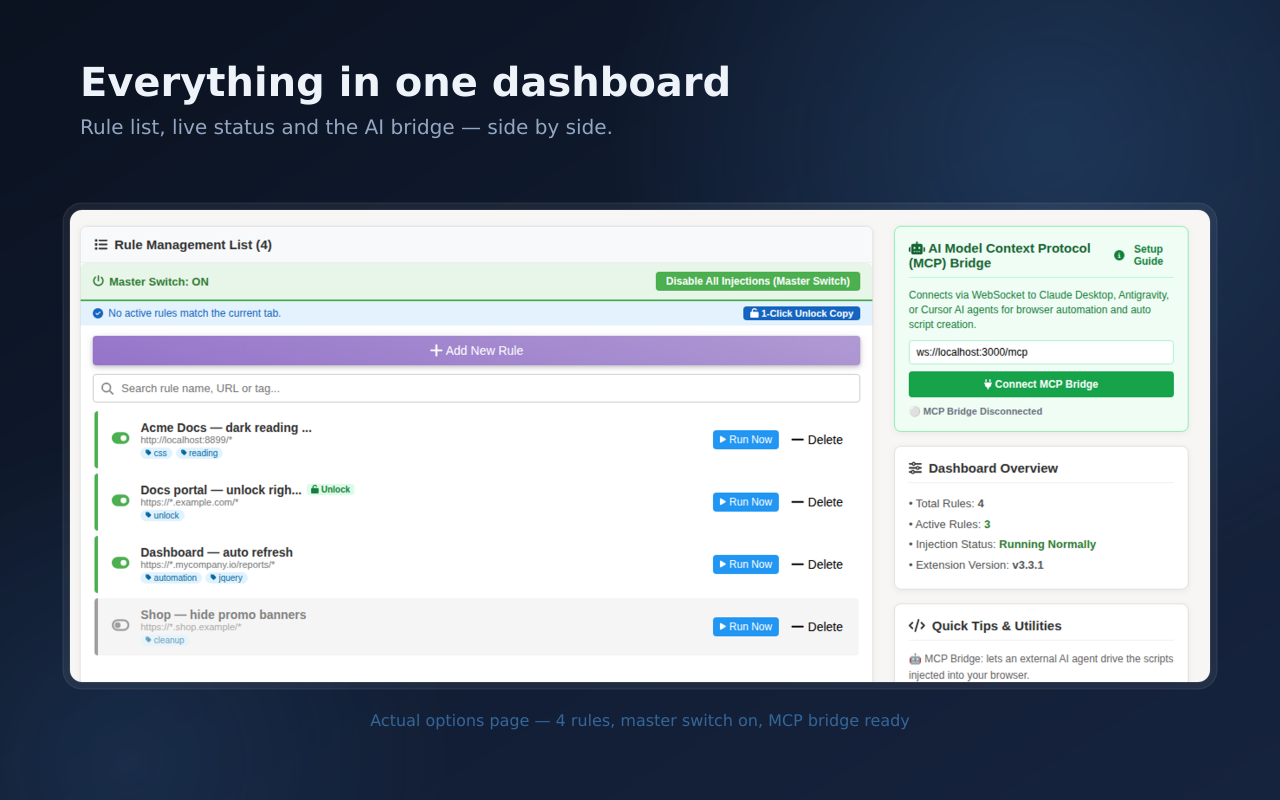
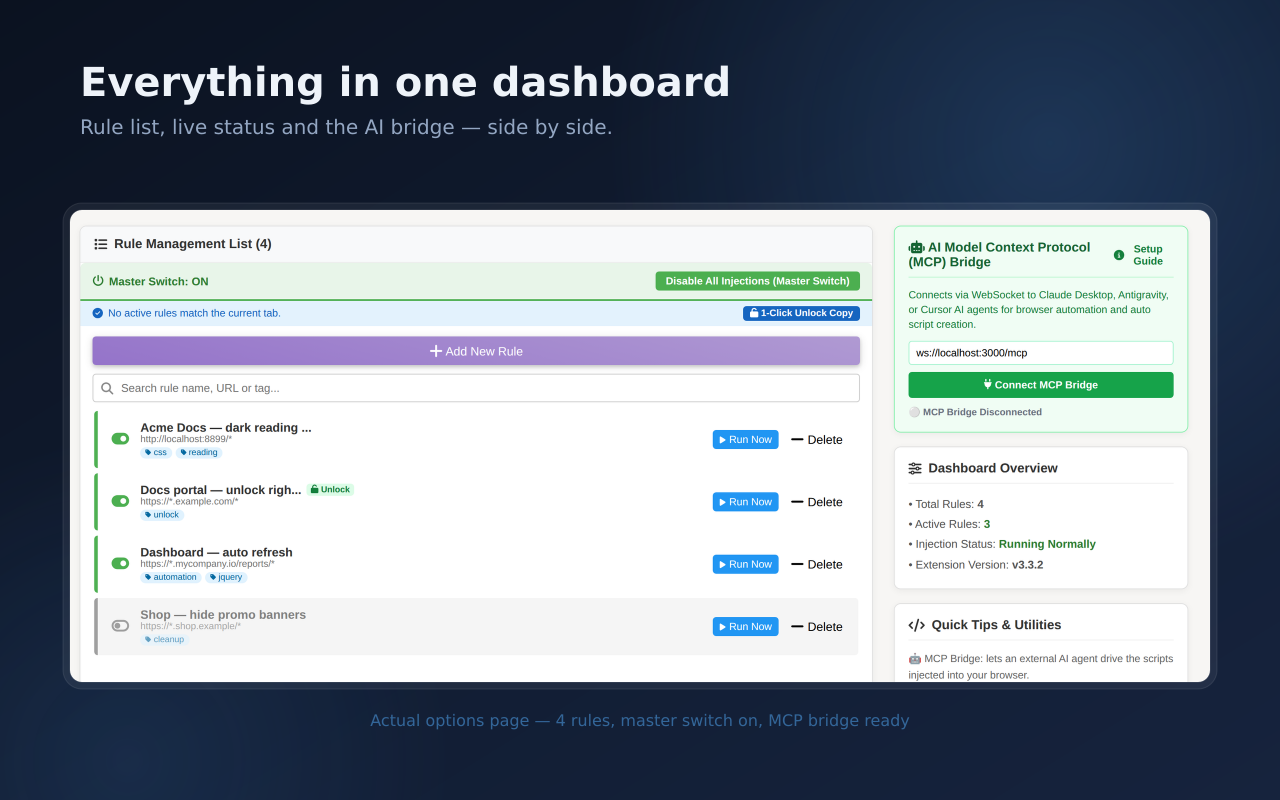
v3.3.2: default to English outside Korean, stop the version bump wiping rules
The store item showed Korean to everyone outside en-* locales, and the popup
opened in Korean for every user regardless of browser language.

- manifest: default_locale ko -> en, so locales without their own _locales
  folder fall back to English; Korean browsers still get _locales/ko
- pick the in-app language from chrome.i18n.getUILanguage() on first run
  (Korean -> KO, everything else -> EN) instead of hardcoding "ko"; a language
  the user picked themselves is never overwritten
- Router.updateDB() ran on every version change and rewrote *all* rules into
  the v1/v2 shape — nickname and url became the storage key ("1", "2", ...)
  and cssCode/tags/enabled/runAt were dropped. It now migrates only entries
  that really are legacy, and keeps __globalEnabled/__lang
- bump to 3.3.2 and re-shoot the store screenshots against the new build

diff --git a/src/route/Router.jsx b/src/route/Router.jsx
@@ -5,7 +5,7 @@ import Config from "_variables";
 
 import { useDispatch, useSelector } from "react-redux";
 import { set, setLang } from "store/modules/lists";
-import { i18n } from "../i18n";
+import { detectLang, i18n } from "../i18n";
 
 import { FontAwesomeIcon } from "@fortawesome/react-fontawesome";
 import { faCog, faGlobe } from "@fortawesome/free-solid-svg-icons";
@@ -27,17 +27,35 @@ function AppRouter() {
     [dispatch]
   );
 
+  /* v1/v2 규칙은 URL 문자열을 키로 쓰고 값에 url/nickname이 없다 */
+  const isLegacyRule = (value) =>
+    Array.isArray(value) || !(value && typeof value === "object" && "url" in value);
+
   const updateDB = useCallback(() => {
-    chrome.storage.sync.get(null, (storageList) => {
+    chrome.storage.sync.get(null, (items) => {
+      const stored = items || {};
+      const prefs = {
+        version: Config.version,
+        __globalEnabled: stored.__globalEnabled !== false,
+        __lang: stored.__lang || detectLang(),
+      };
+      const rules = Object.entries(stored).filter(
+        ([id]) => id !== "version" && !id.startsWith("__")
+      );
+
+      /* 이미 현재 포맷이면 버전만 갱신한다 — 규칙을 건드리면 안 된다 */
+      if (!rules.some(([, value]) => isLegacyRule(value))) {
+        chrome.storage.sync.set(prefs, () => loadStorageRef.current?.());
+        return;
+      }
+
+      /* v1/v2 업데이트 호환: 옛 포맷만 현재 포맷으로 옮긴다 */
       chrome.storage.sync.clear(() => {
-        chrome.storage.sync.set(
-          { version: Config.version, __globalEnabled: true, __lang: "ko" },
-          () => {
-            /* v1/v2 업데이트 호환 */
-            Object.entries(storageList || {}).forEach(([id, value], i) => {
-              if (id !== "version" && !id.startsWith("__")) {
-                chrome.storage.sync.set({
-                  [i]: {
+        chrome.storage.sync.set(prefs, () => {
+          rules.forEach(([id, value], i) => {
+            chrome.storage.sync.set({
+              [i]: isLegacyRule(value)
+                ? {
                     nickname: decodeURIComponent(id),
                     url: decodeURIComponent(id),
                     code: Array.isArray(value) ? value[0] : value.code || "",
@@ -46,13 +64,12 @@ function AppRouter() {
                     runAt: "document_start",
                     cssCode: "",
                     tags: "",
-                  },
-                });
-              }
+                  }
+                : value,
             });
-            loadStorageRef.current?.();
-          }
-        );
+          });
+          loadStorageRef.current?.();
+        });
       });
     });
   }, []);

diff --git a/src/store/modules/lists.js b/src/store/modules/lists.js
@@ -1,9 +1,10 @@
 import { createSlice } from "@reduxjs/toolkit";
+import { detectLang } from "../../i18n";
 
 const initialState = {
   all: {},
   globalEnabled: true,
-  lang: "ko",
+  lang: detectLang(),
 };
 
 const listsSlice = createSlice({
@@ -14,7 +15,7 @@ const listsSlice = createSlice({
       const { __globalEnabled, __lang, ...rules } = action.payload || {};
       state.all = rules;
       state.globalEnabled = __globalEnabled !== false;
-      state.lang = __lang || "ko";
+      state.lang = __lang || detectLang();
     },
     setGlobalEnabled(state, action) {
       state.globalEnabled = action.payload;

diff --git a/src/i18n.js b/src/i18n.js
@@ -1,3 +1,15 @@
+/**
+ * 사용자가 아직 언어를 고르지 않았을 때 쓰는 기본 언어.
+ * 브라우저 UI 언어가 한국어면 ko, 그 외에는 en.
+ */
+export function detectLang() {
+  const ui =
+    (typeof chrome !== "undefined" && chrome.i18n?.getUILanguage?.()) ||
+    navigator.language ||
+    "en";
+  return ui.toLowerCase().startsWith("ko") ? "ko" : "en";
+}
+
 export const i18n = {
   ko: {
     appTitle: "JS-Injection",

diff --git a/src/_variables.js b/src/_variables.js
@@ -1,1 +1,1 @@
-export default { version: "3.3.1" };
+export default { version: "3.3.2" };

diff --git a/STORE_LISTING.md b/STORE_LISTING.md
@@ -27,6 +27,10 @@ Developer Tools
 ```
 English (primary) — Korean also supported in-app
 ```
+> `manifest.json` uses `"default_locale": "en"`, so every locale without its own
+> `_locales/` folder falls back to English. Korean browsers still get the Korean
+> name/description from `_locales/ko`, and the in-app UI picks its language from
+> the browser UI language on first run (Korean → KO, everything else → EN).
 
 **Detailed description**
 ```
@@ -77,7 +81,7 @@ https://github.com/AnOldStory/js-injection/issues
 - Marquee promo tile (1400×560): `marquee-1400x560.png`
 - Store icon (128×128): `public/icon128.png`
 
-All four screenshots frame real captures of the built extension (v3.3.1, English UI).
+All four screenshots frame real captures of the built extension (v3.3.2, English UI).
 Regenerate them after any UI change:
 
 ```bash
